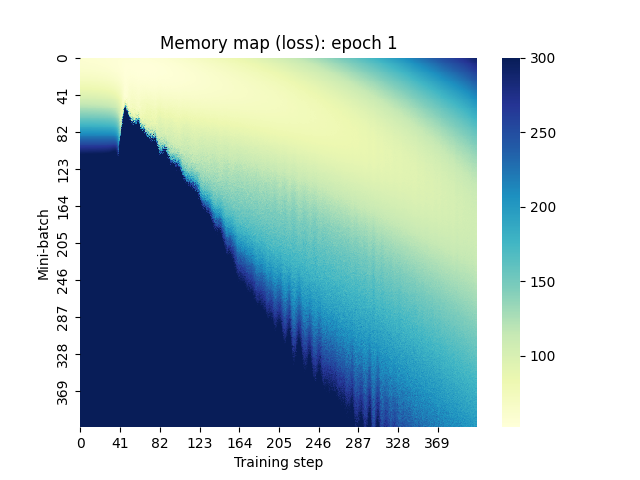
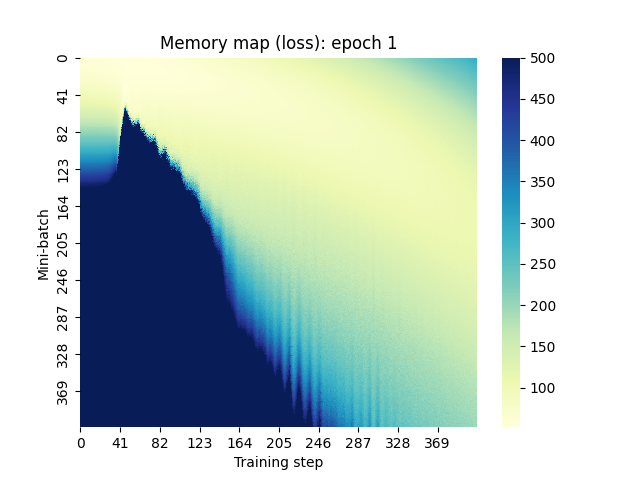
Commit experiment - visualisation of memory maps - artificial - linear

diff --git a/visualisation_linear/ml_vl/loss_history.py b/visualisation_linear/ml_vl/loss_history.py
@@ -182,10 +182,10 @@ def main():
     max_loss = 600
     min_loss = -600
 
-    plot_mmap(mmap_dir, 1, max_loss=300, min_loss=-300)
+    plot_mmap(mmap_dir, 1, max_loss=500, min_loss=-500)
     plot_mmap(mmap_dir, 2, max_loss=500, min_loss=-500)
     plot_mmap(mmap_dir, 3, max_loss=1000, min_loss=-1000)
-    plot_mmap(mmap_dir, 4, max_loss=500, min_loss=-500)
+    plot_mmap(mmap_dir, 4, max_loss=1000, min_loss=-1000)
 
 
 if __name__ == '__main__':
